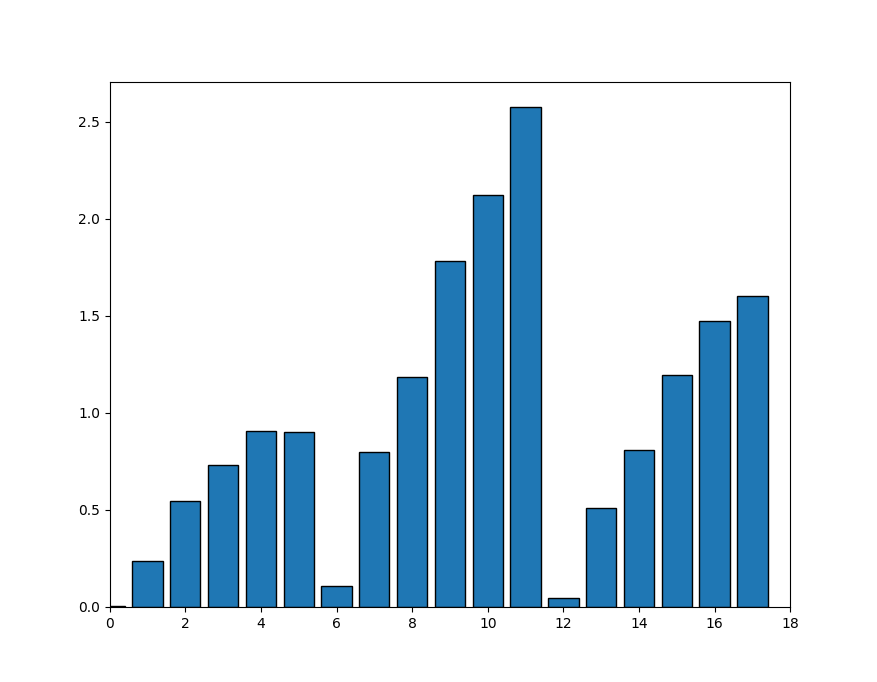
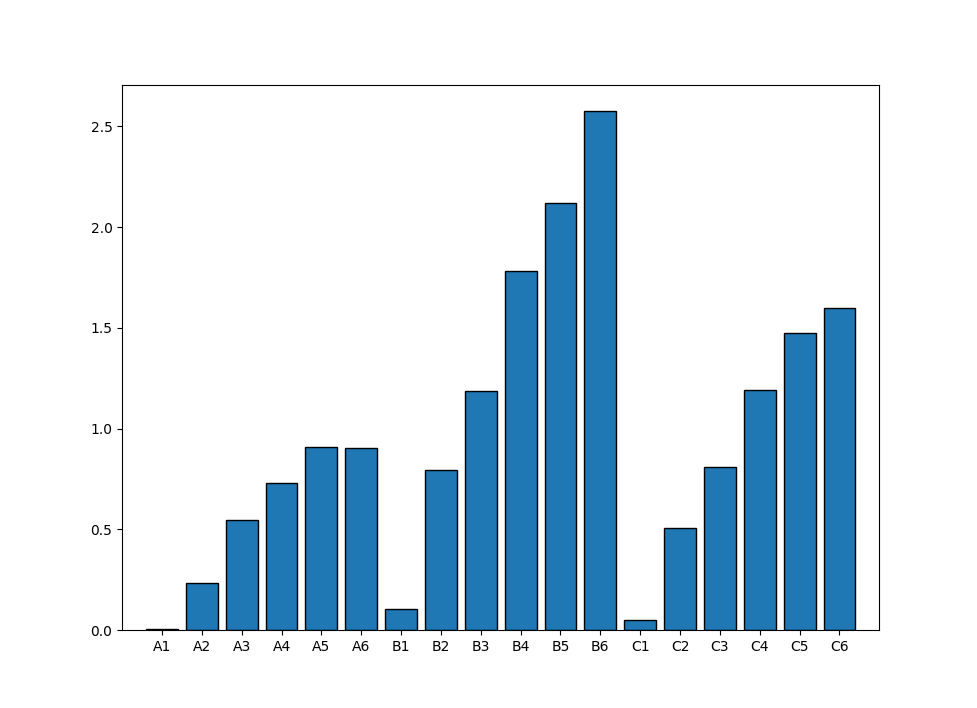
Made the graphs nicer again

diff --git a/lib.py b/lib.py
@@ -60,8 +60,12 @@ def debug_histogram():
 	# plt.show()
 
 	## Areas bar chart
-	plt.bar(range(len(data_areas)), data_areas, edgecolor="black")
-	plt.xlim(0, len(data_areas))
+	_, ax = plt.subplots(figsize=(8, 6))
+
+	ax.bar(range(len(data_areas)), data_areas, edgecolor="black")
+	ax.set_xticks(range(18), [a+b for a in "ABC" for b in "123456"])
+
+	ax.set_xlim(-1, len(data_areas))
 	plt.show()
 
 if __name__ == "__main__": debug_histogram()
